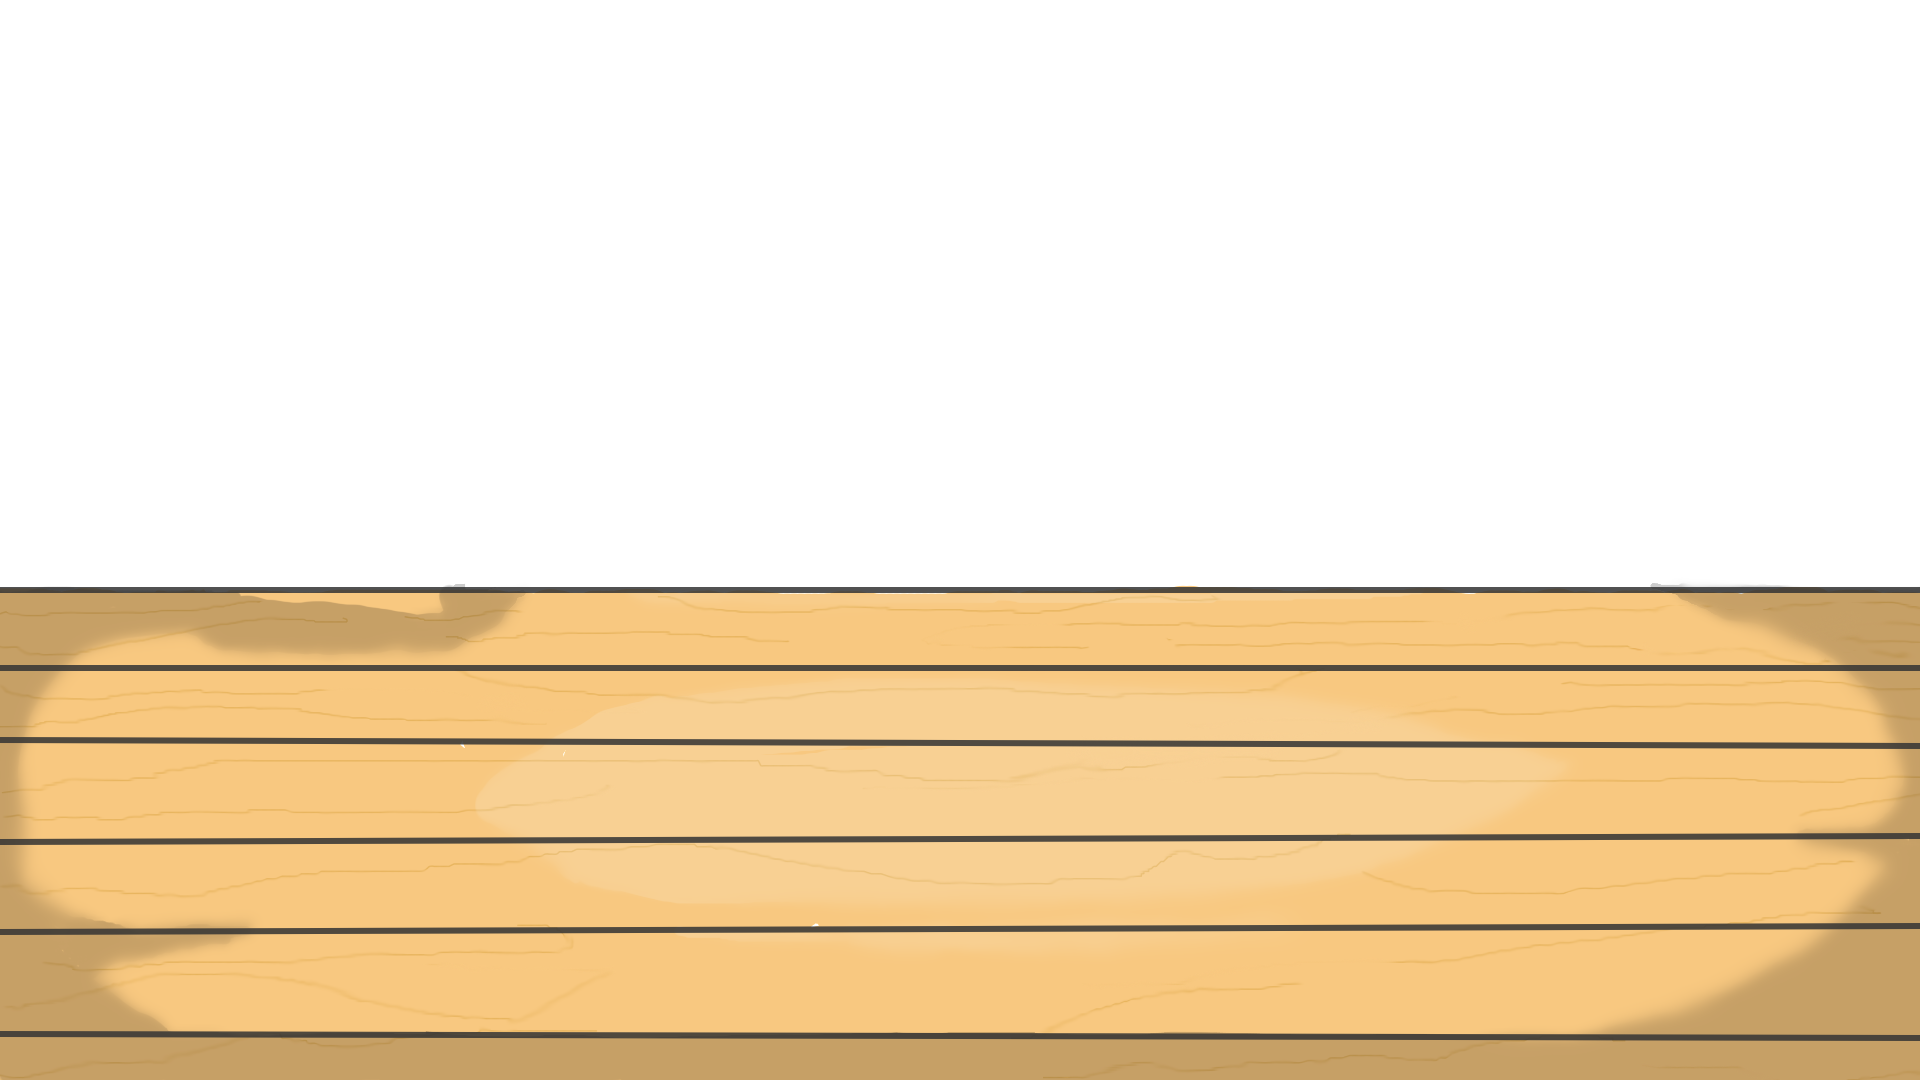
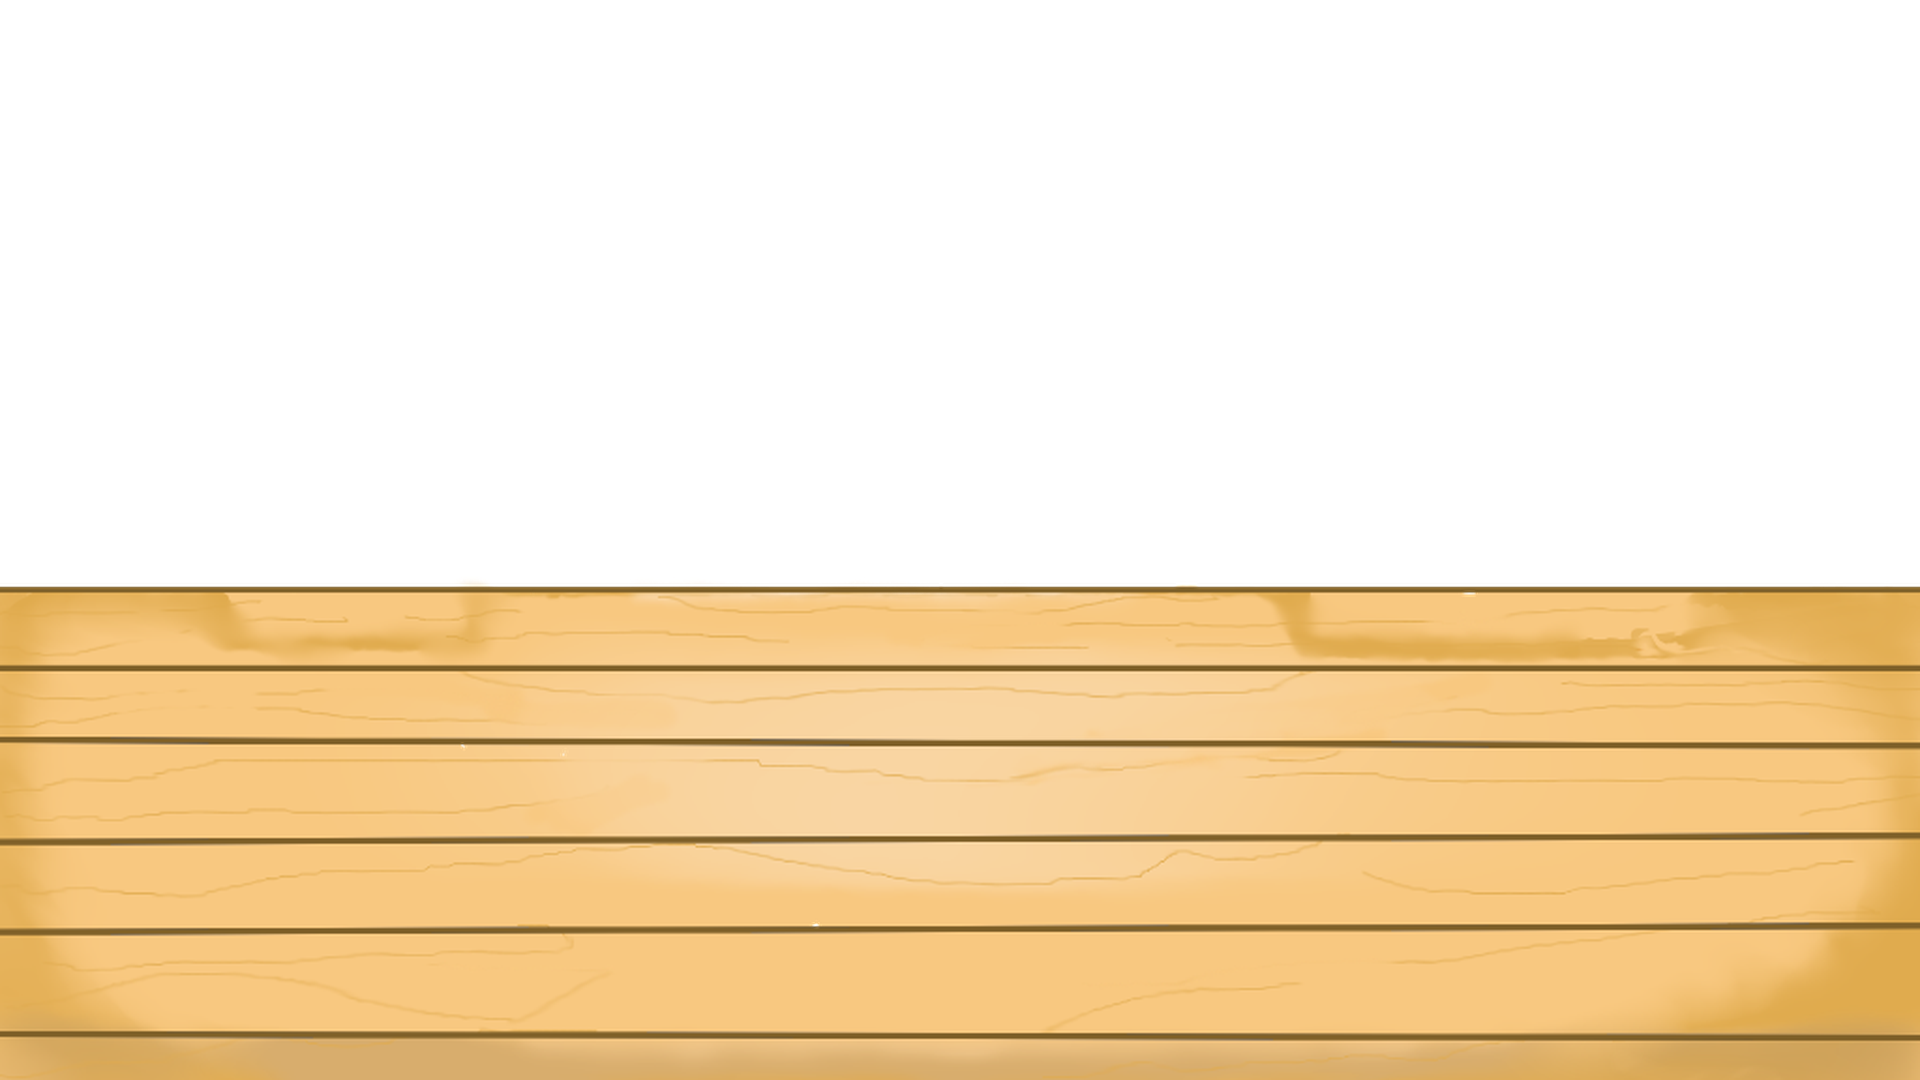
fix(layout): calibrar coordenadas exactas de mesa, horno, cafetera y taza segun lienzo Krita
- Actualiza public/assets/mesa_illustracion.png con la ilustracion base final alineada.
- Sincroniza posiciones de estaciones en GameScene.js: cafetera en (351, 507) con escala nativa 320x320 y horno en (1391, 504) segun coordenadas exactas de Krita.
- Calibra en ui-config.json cupStack a (431, 347) para que las tazas apoyen con precision sobre la bandeja de la cafetera.

Changed region(s): [[0.0, 0.5194, 1.0, 1.0]]

diff --git a/src/scenes/GameScene.js b/src/scenes/GameScene.js
@@ -409,11 +409,11 @@ export default class GameScene extends Phaser.Scene {
     const { formaLabel } = UI_CONFIG;
     this.createShapeButtons(formaLabel.x - 165, formaLabel.y + 24);
 
-    // Column 3: Horno (Oven minigame)
-    this.createOvenStation(1359, 581);
+    // Column 3: Horno (Oven minigame) - Posición exacta Krita: X centro 1494, Y centro 429
+    this.createOvenStation(1391, 504);
 
-    // Column 3.5: Bebidas (Drinks Station) - Moved to left side where 2. Forma was
-    this.createDrinkStation(504, 506);
+    // Column 3.5: Bebidas (Drinks Station) - Posición exacta Krita: X centro 351, Y centro 507
+    this.createDrinkStation(351, 507);
 
     // Column 4: Decoración (Toppings)
     this.createToppingButtons(1669, 581);
@@ -794,9 +794,9 @@ export default class GameScene extends Phaser.Scene {
   createDrinkStation(startX, startY) {
 
 
-    // 2. Espresso Machine (New asset: cafeteteria_base.png)
+    // 2. Espresso Machine (New asset: cafeteteria_base.png) - 320x320 nativo 1:1 con Krita
     this.drinkMachine = this.add.image(startX, startY, 'drink_machine')
-      .setDisplaySize(300, 300)
+      .setDisplaySize(320, 320)
       .setDepth(2);
     
     // Set machine interactive to provide helpful hints on tap
